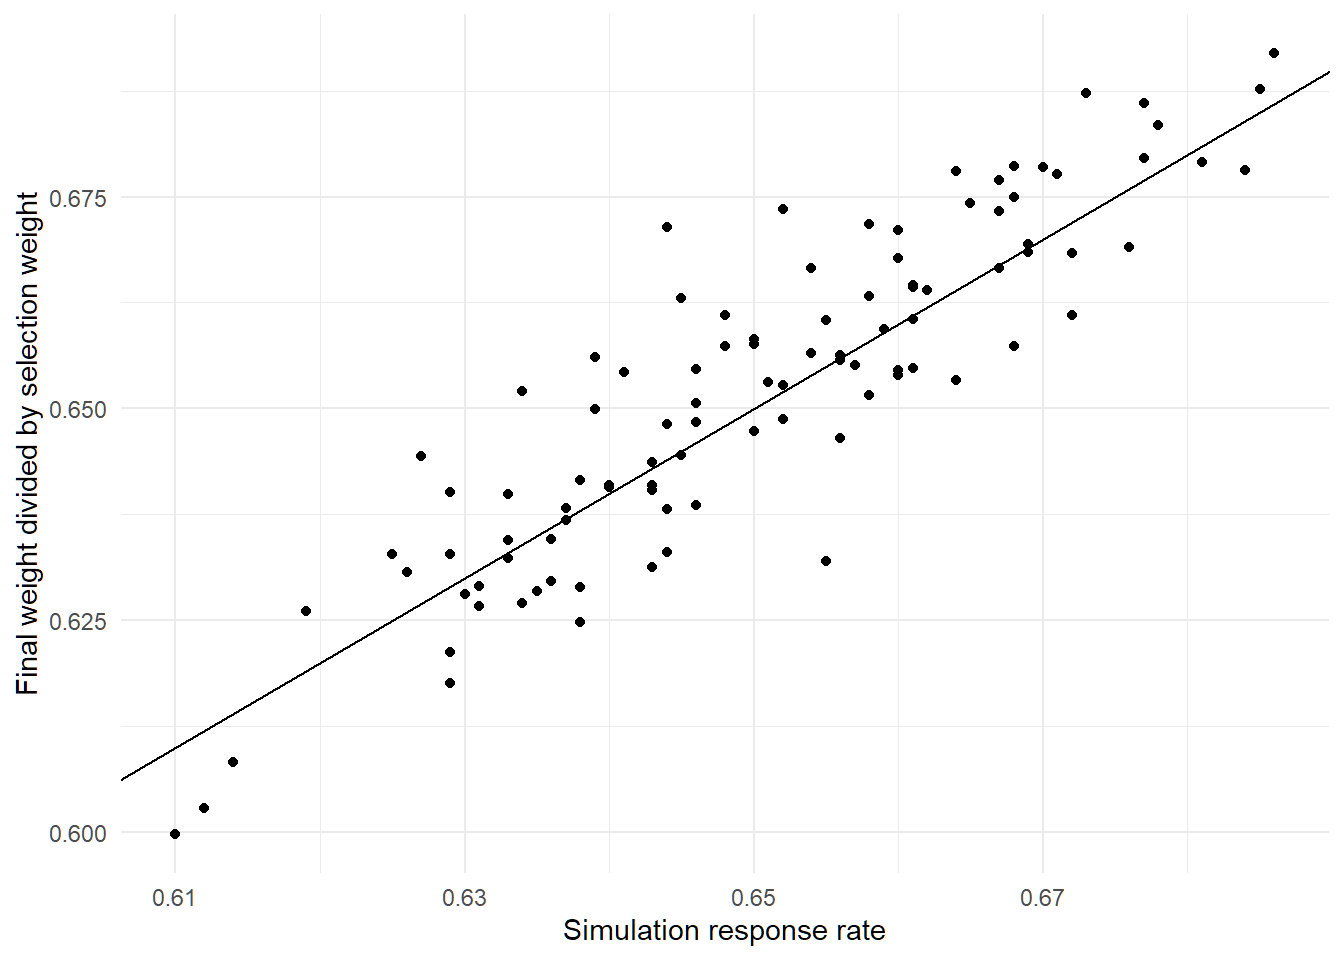
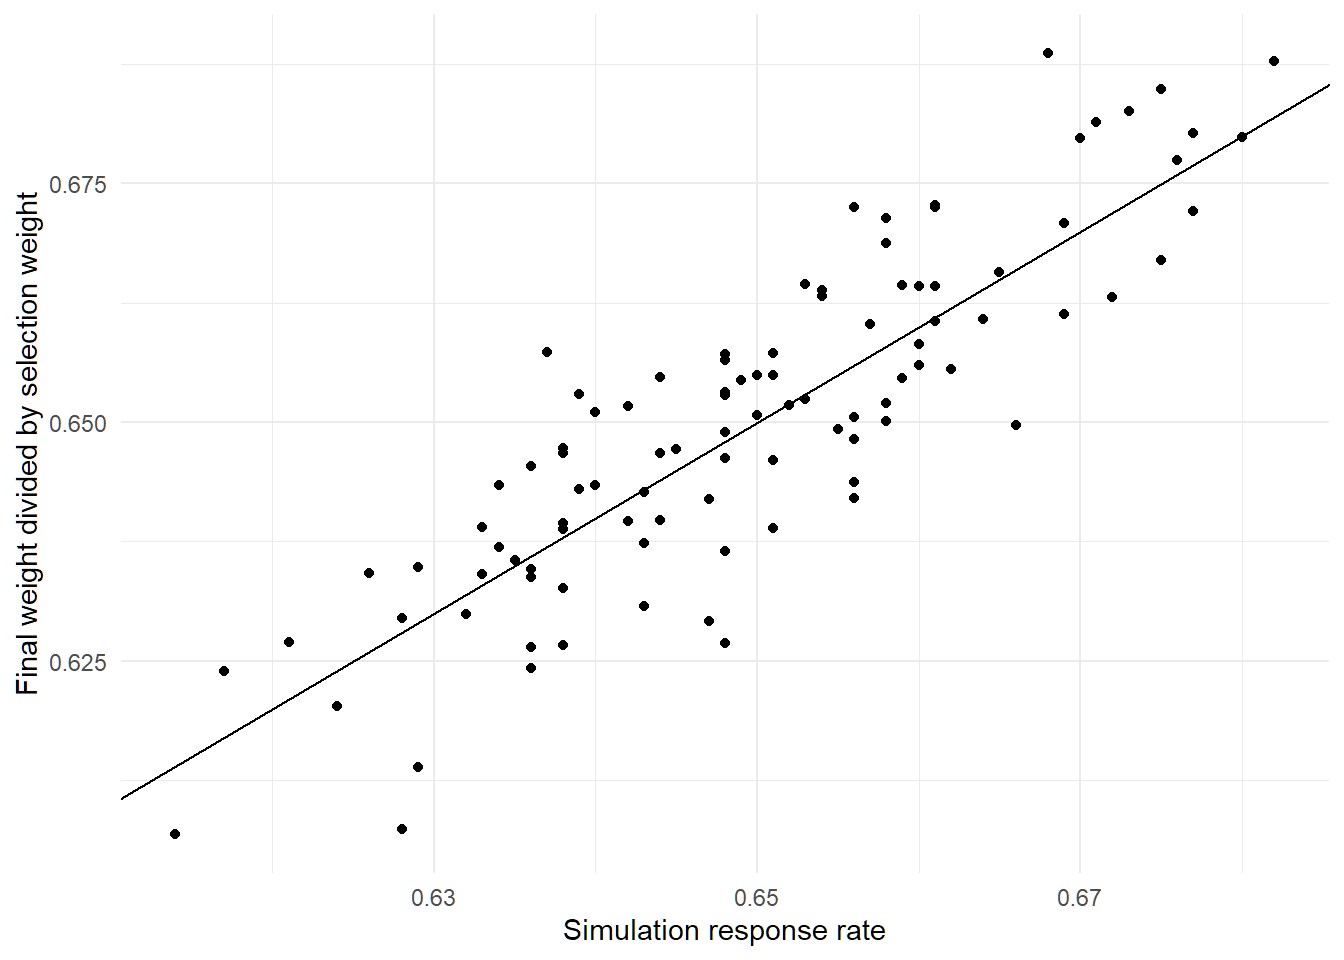
hmm

diff --git a/content/post/why-is-this-the-answer/index.html b/content/post/why-is-this-the-answer/index.html
@@ -1,13 +1,14 @@
 ---
 title: "Why is this the answer?"
 author: "Jonathan Mellon"
-date: 2021-12-13T21:10:14-05:00
+date: 2021-12-13T21:13:14-05:00
 categories:
 - post-stratification
 - response rate
 - surveys
 - weighting
 - raking
+- stream of consciousness
 tags:
 - post-stratification
 - response rate
@@ -33,12 +34,12 @@ math: yes
 <p>After an hour of failing to work out an analytic proof, I thought it would be worth doing a simulation to see whether the claim is at least empirically true.</p>
 <p>Let’s do a simple two-stage sample where households are randomly selected, then a respondent is randomly selected from that household. This means that people in larger households have a lower probability of selection. If you live alone there’s a 100% chance of selection conditional on your household being selected, whereas if you live in a two-person household your selection probability is 50%.</p>
 <p>Conditional on being selected for the survey, rich people respond at 100% and poor people respond at 30%.</p>
-<p>So after simulating that, I look at the response rate for the simulation (0.648) and the minimum value of the ratios of the final true weight to the selection weight (0.654). Not far off, but also not identical. So, it looks like my initial guess about the constraint might be on the right track but not exactly right.</p>
+<p>So after simulating that, I look at the response rate for the simulation (0.649) and the minimum value of the ratios of the final true weight to the selection weight (0.65). Not far off, but also not identical. So, it looks like my initial guess about the constraint might be on the right track but not exactly right.</p>
 <p>Let’s try this a few more times and see whether it’s robust.</p>
 <p><img src="{{< blogdown/postref >}}index_files/figure-html/unnamed-chunk-2-1.png" width="672" /></p>
 <p>After 100 simulations, it’s clear that there’s a very strong relationship, but this not an exact match.</p>
 <p>So what’s going on with those ratios? The mean of the scaled inverse-probability weights is always exactly 1 in the simulation as is the mean of the scaled selection weights.</p>
-<p>However, the ratios themselves do not always have a mean of exactly one. In fact, on average, they are 0.0106 away from 1. But should we actually expect these ratios to be near one on average? If I simulate two random vectors and rescale them to both have a mean of 1, the average ratio of them isn’t usually anywhere near 1.</p>
+<p>However, the ratios themselves do not always have a mean of exactly one. In fact, on average, they are 0.0109 away from 1. But should we actually expect these ratios to be near one on average? If I simulate two random vectors and rescale them to both have a mean of 1, the average ratio of them isn’t usually anywhere near 1.</p>
 <pre class="r"><code>set.seed(1298)
 A &lt;- abs(rnorm(1000))
 B &lt;- abs(rnorm(1000))
@@ -48,7 +49,7 @@ mean(A/B)</code></pre>
 <pre><code>## [1] 4.292947</code></pre>
 <p>OK, well what if I rescale the ratios so that they <em>actually</em> have a mean of 1 rather than just being close to that?</p>
 <p><img src="{{< blogdown/postref >}}index_files/figure-html/unnamed-chunk-6-1.png" width="672" /></p>
-<p>Apparently, that nails the minimum weight exactly. The mean absolute difference between this adjusted ratio and the response rate for the survey is just 0.0000000000000000555111512312578. At that point I’m willing to believe any remaining differences are just about floating point precision.</p>
+<p>Apparently, that nails the minimum weight exactly. The mean absolute difference between this adjusted ratio and the response rate for the survey is just 0.0000000000000000621724893790088. At that point I’m willing to believe any remaining differences are just about floating point precision.</p>
 </div>
 <div id="does-this-work-with-different-simulation-parameters" class="section level1">
 <h1>Does this work with different simulation parameters?</h1>
